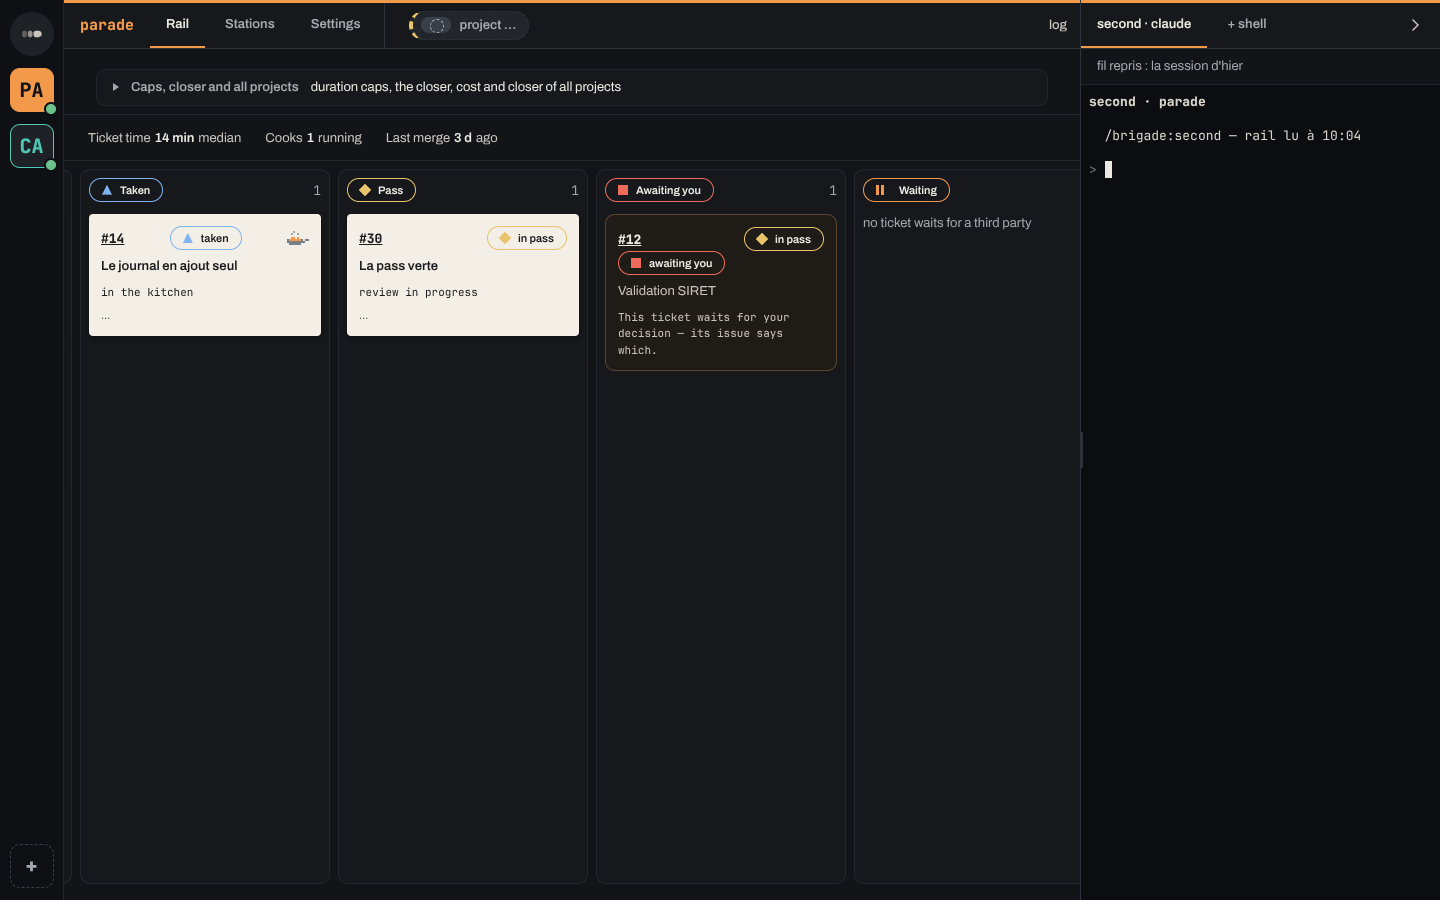
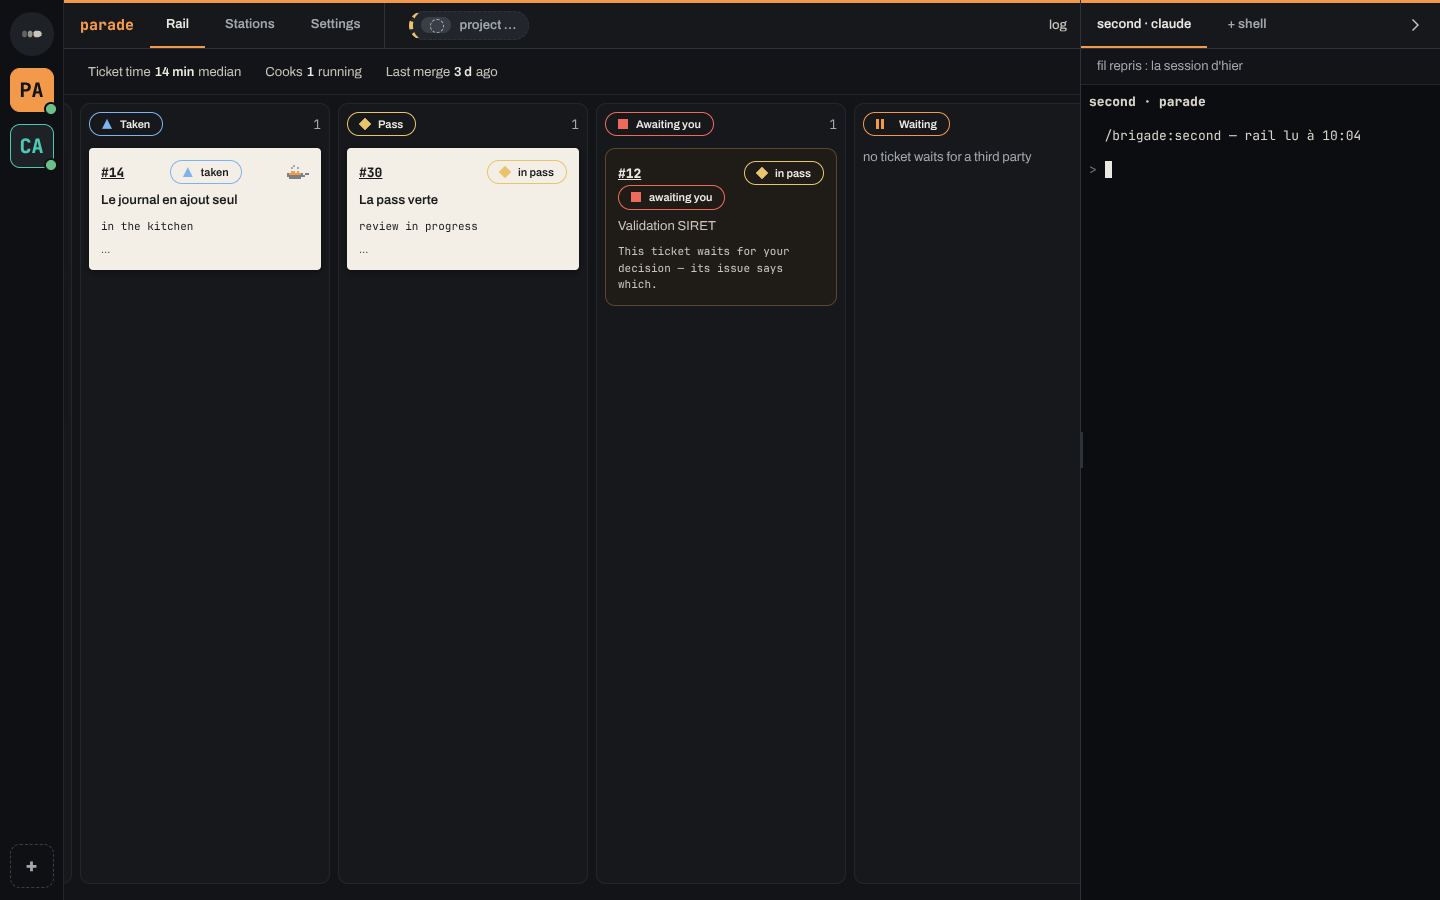
feat(#3013): the Caps, closer and all projects line leaves the Rail tab
Between the tabs and the columns, the Rail tab now holds only the band of figures: the folded
"Caps, closer and all projects" line is no longer shown there. Until the Settings ticket takes it
in, it stands at the top of the Stations tab, so the duration caps, the closer and the Cost and
Closer pages of all projects keep an entry (two clicks, as the epic 2484 test checks). Its content
and readings are unchanged; no Settings file is touched.

Tests: the rail tab shows no folded line and nothing but signs before the band; the line shows
on Stations only; the Cost / Closer helpers and the health strip tests go through Stations.
Captures: docs/captures/3013/rail-*-apres.png retaken, stations-avant/apres added.

Changed region(s): [[0.0625, 0.0622, 0.5625, 0.3733], [0.5938, 0.1244, 0.7188, 0.2489]]

diff --git a/app/src/vue/vue.js b/app/src/vue/vue.js
@@ -4590,10 +4590,10 @@ function poserLeRail(projet) {
   const onglet = ongletDe(projet);
   rail.dataset.onglet = onglet === STATIONS ? onglet : RAIL;
   rail.ariaLabel = onglet === STATIONS ? "The stations" : "The rail";
-  // Au-dessus du rail, la ligne repliée des plafonds, du closer et des lignes de tous les projets (tickets 2921, 3013) :
-  // sur Rail seulement. Les chiffres sont dans la bande du rail.
-  bandeauSante.hidden = onglet !== RAIL;
-  if (onglet === RAIL) poserLeBandeauDeSante(projet);
+  // La ligne repliée des plafonds, du closer et des lignes de tous les projets (tickets 2921, 3013) : plus sur Rail, où
+  // seule la bande des chiffres tient au-dessus des colonnes ; en tête de Stations, le temps que Settings la reprenne.
+  bandeauSante.hidden = onglet !== STATIONS;
+  if (onglet === STATIONS) poserLeBandeauDeSante(projet);
   else bandeauSante.replaceChildren();
   // Stations : la liste de ses stations (ticket 2487), et « Add a station » ; les réglages de
   // chacune (ticket 2488) ; la station de cet ordinateur (ticket 2489).
@@ -6321,9 +6321,10 @@ setInterval(() => {
   if (courant !== undefined && !delaiDuProjet.hidden) poserLeDelai(courant);
 }, 30_000);
 
-// Le bandeau de santé, au-dessus du rail (ticket 2490, 2921) : le temps des tickets en détail, les plafonds de durée et le closer. Les plafonds du
-// dépôt se lisent sur GitHub par le process principal (plafonds-duree.ts) — à l'ouverture de Rail, puis au plus une
-// fois la minute tant qu'il reste ouvert, et après chaque changement. Un champ en cours de frappe n'est pas reposé.
+// Le bandeau de santé (ticket 2490, 2921), en tête de Stations depuis que Rail n'a plus que la bande des chiffres (ticket
+// 3013) : les plafonds de durée et le closer. Les plafonds du dépôt se lisent sur GitHub par le process principal
+// (plafonds-duree.ts) — à l'ouverture de Stations, puis au plus une fois la minute tant qu'il reste ouvert, et après
+// chaque changement. Un champ en cours de frappe n'est pas reposé.
 /** @type {Map<string, import("../plafonds-duree.ts").LectureDesPlafonds>} */
 const plafondsLus = new Map();
 /** @type {Map<string, number>} */
@@ -6385,7 +6386,7 @@ function poserLeBandeauDeSante(projet, garder = true) {
 }
 /** @param {Projet} projet @param {boolean} [garder] */
 function reposerLaSante(projet, garder = false) {
-  if (courant?.nom === projet.nom && ongletDe(projet) === RAIL && laisse.get(projet.nom) === undefined) poserLeBandeauDeSante(projet, garder);
+  if (courant?.nom === projet.nom && ongletDe(projet) === STATIONS && laisse.get(projet.nom) === undefined) poserLeBandeauDeSante(projet, garder);
 }
 /** @param {Projet} projet */
 async function lireLesPlafondsDuree(projet) {
@@ -6429,7 +6430,7 @@ async function changerUnPlafond(projet, cle, saisie) {
 }
 
 // Le closer du bandeau de santé (ticket 2491) : ses passes, ce qu'il vérifie en premier et en plus, ses réglages — lus sur GitHub
-// par le process principal (closer-sante.ts), à l'ouverture de Rail puis au plus une fois la minute, comme les
+// par le process principal (closer-sante.ts), à l'ouverture de Stations puis au plus une fois la minute, comme les
 // plafonds. Un réglage changé se propose par une pull request (ticket 2920), qui se dit sous sa rangée — la valeur en
 // vigueur ne change qu'au merge ; une vérification ajoutée ou retirée s'écrit dans le dépôt, et la liste écrite est reprise.
 /** @param {Projet} projet */

diff --git a/app/test/vue/projet/rail/bande-rail.test.ts b/app/test/vue/projet/rail/bande-rail.test.ts
@@ -296,7 +296,7 @@ describe("sur l'onglet Rail", () => {
   const bande = (vue: Jouee) => vue.element("rail").children.find((pose) => pose.className === "bande-rail");
   const parts = (vue: Jouee) => (bande(vue) ?? assert.fail("pas de bande en tête du rail")).children.map(laPart);
 
-  test("une seule ligne de chiffres en tête du rail, chacun une fois ; au-dessus, ni bloc des temps, ni « Blocked without a question », ni aide `?`", async () => {
+  test("une seule ligne de chiffres en tête du rail, chacun une fois ; au-dessus, ni bloc des temps, ni « Blocked without a question », ni aide `?`, ni la ligne repliée « Caps, closer and all projects »", async () => {
     const vue = await ouvrir(NORMAL);
     const [temps, premierCoup, cooks, dernierMerge] = parts(vue);
     assert.equal(temps?.textContent, TEMPS_NORMAL);
@@ -310,23 +310,25 @@ describe("sur l'onglet Rail", () => {
     assert.ok(enfants.indexOf("bande-rail") < enfants.indexOf("colonnes"), enfants.join(", "));
     const noms = parts(vue).map((part) => part.className);
     assert.deepEqual(noms, [...new Set(noms)]);
-    // Au-dessus du rail, plus de bloc de chiffres, de titre sans rien dessous ni d'aide `?` : seule la ligne repliée des
-    // réglages reste, le temps que Settings la reprenne.
+    // Au-dessus du rail, plus rien d'autre que la bande : ni bloc de chiffres, ni titre sans rien dessous, ni aide `?`, ni la
+    // ligne repliée « Caps, closer and all projects ».
     const dessus = vue.element("bandeau-sante");
-    assert.deepEqual(dessus.dessous("section").map(({ dataset }) => dataset.bloc).filter((bloc) => bloc === "temps-tickets" || bloc === "bloque-sans-question"), []);
-    assert.doesNotMatch(dessus.textContent, /Ticket time|Blocked without a question/);
-    assert.doesNotMatch(dessus.textContent, /no measure yet|Not available yet/i);
-    assert.doesNotMatch(bande(vue)?.textContent ?? "", /no measure yet|Not available yet/i);
+    assert.equal(dessus.hidden, true);
+    assert.deepEqual(dessus.children, []);
+    // Devant la bande, seul un signe de lecture (une lecture vieille, hors ligne) peut se poser : aucun bloc, titre ni ligne repliée.
+    assert.deepEqual(enfants.slice(0, enfants.indexOf("bande-rail")).filter((nom) => !/^(fraicheur|hors-ligne)/.test(nom)), [], enfants.join(", "));
+    assert.doesNotMatch(vue.element("rail").textContent, /Caps, closer and all projects|Blocked without a question/);
+    assert.doesNotMatch(bande(vue)?.textContent ?? "", /no measure yet|Not available yet|\?/i);
   });
 
-  test("sur Stations, la bande et le bandeau de santé n'y sont pas ; Rail les rend", async () => {
+  test("sur Stations, la bande n'y est pas, la ligne repliée des réglages si ; Rail rend la bande seule", async () => {
     const vue = await ouvrir(NORMAL);
-    assert.equal(vue.element("bandeau-sante").hidden, false);
+    assert.equal(vue.element("bandeau-sante").hidden, true);
     await ouvrirOnglet(vue, "Stations");
     assert.equal(bande(vue), undefined);
-    assert.equal(vue.element("bandeau-sante").hidden, true);
-    await ouvrirOnglet(vue, "Rail");
     assert.equal(vue.element("bandeau-sante").hidden, false);
+    await ouvrirOnglet(vue, "Rail");
+    assert.equal(vue.element("bandeau-sante").hidden, true);
     assert.notEqual(bande(vue), undefined);
   });
 

diff --git a/app/test/vue/projet/menu.test.ts b/app/test/vue/projet/menu.test.ts
@@ -94,7 +94,7 @@ async function ouvrir(stockage?: FauxStockage): Promise<Jouee> {
 
 const menu = (vue: Jouee) => vue.element("onglets-du-projet").children;
 const marques = (ou: Faux[]) => ou.filter((onglet) => onglet.ariaSelected === "true").map((onglet) => onglet.textContent);
-// Les blocs du bandeau au-dessus du rail : ce que le chef déplie (les plafonds, le closer, tous les projets).
+// Les blocs du bandeau de santé, en tête de Stations (#3013) : ce que le chef déplie (les plafonds, le closer, tous les projets).
 const blocsDuBandeau = (vue: Jouee) => vue.element("bandeau-sante").dessous("section").map((pose) => pose.dataset.bloc).filter((bloc) => bloc !== undefined);
 const blocs = (vue: Jouee) => vue.element("rail").children.map((pose) => pose.dataset.bloc);
 
@@ -109,22 +109,23 @@ describe("le menu de la page d'un projet (#2485, #2921)", () => {
     assert.equal(vue.poses().some((element) => element.id === "onglets-cuisine"), false);
   });
 
-  test("chaque bloc est monté dans son onglet, le bandeau de santé sur Rail seulement", async () => {
+  test("chaque bloc est monté dans son onglet, le bandeau de santé sur Stations seulement", async () => {
     const vue = await ouvrir();
-    // Au-dessus du rail, les plafonds, le closer, puis les lignes « Cost » et « Closer » de tous les projets (#2638) ; les
-    // chiffres de la cuisine sont dans la bande du rail (#3013).
-    assert.equal(vue.element("bandeau-sante").hidden, false);
-    assert.deepEqual(blocsDuBandeau(vue), ["plafonds-duree", "closer", "de-tous-les-projets"]);
+    // Sur Rail, au-dessus des colonnes, la seule bande des chiffres (#3013) : plus de ligne repliée.
+    assert.equal(vue.element("bandeau-sante").hidden, true);
+    assert.deepEqual(vue.element("bandeau-sante").children, []);
 
     await ouvrirOnglet(vue, "Stations");
     // Puis, en bas, toutes les stations et « + station », qui ont quitté l'accueil (#2638).
     assert.deepEqual(blocs(vue), ["liste-stations", "reglages-station", "station-locale", "toutes-les-stations"]);
-    assert.equal(vue.element("bandeau-sante").hidden, true);
-    assert.deepEqual(vue.element("bandeau-sante").children, []);
+    // En tête, les plafonds, le closer, puis les lignes « Cost » et « Closer » de tous les projets (#2638), le temps que
+    // Settings les reprenne (#3013).
+    assert.equal(vue.element("bandeau-sante").hidden, false);
+    assert.deepEqual(blocsDuBandeau(vue), ["plafonds-duree", "closer", "de-tous-les-projets"]);
 
     await ouvrirOnglet(vue, "Rail");
-    assert.equal(vue.element("bandeau-sante").hidden, false);
-    assert.equal(blocsDuBandeau(vue).length, 3);
+    assert.equal(vue.element("bandeau-sante").hidden, true);
+    assert.deepEqual(vue.element("bandeau-sante").children, []);
   });
 
   test("l'onglet retenu est celui du projet ; un ancien « cooks » ou « sante » stocké ouvre Rail", async () => {

diff --git a/scripts/capture-ecran/ecrans/projet-sante-enregistre.ts b/scripts/capture-ecran/ecrans/projet-sante-enregistre.ts
@@ -1,11 +1,11 @@
-// La page de « parade », le bandeau de santé de Rail (#2490, #2920) : le chef a tapé 150 dans la durée des gates et quitté
+// La page de « parade », le bandeau de santé en tête de Stations (#2490, #2920, #3013) : le chef a tapé 150 dans la durée des gates et quitté
 // le champ — le réglage s'applique à son `change`, sans « save ». Gardé dans le dépôt, il s'y propose par une pull
 // request : la rangée la dit, son lien l'ouvre, et la valeur montrée reste celle en vigueur jusqu'au merge.
 import type { RenduDuPlafond } from "../../../app/src/plafonds-duree.ts";
 import { PROPOSE } from "../../../app/src/reglages-du-projet.ts";
 import type { Ecran } from "./commun.ts";
 import { donnees, OUVRIR, SUR_LA_BOX } from "./cuisine-demenagee.ts";
-import { PLAFONDS_LUS } from "./projet-sante.ts";
+import { PLAFONDS_LUS, STATIONS } from "./projet-sante.ts";
 import { NORMAL } from "./projet-temps-commun.ts";
 
 const PROPOSE_PAR_PR: RenduDuPlafond = { propose: PROPOSE, pr: "https://github.com/chef/parade/pull/2612", numero: 2612, cle: "gatesSeconds", valeur: 150 };
@@ -14,9 +14,9 @@ const DEPLIER = { cliquer: "#bandeau-sante > details > summary" };
 const CHAMP = '[data-bloc="plafonds-duree"] .reglage[data-cle="gatesSeconds"] input';
 
 export const ecran: Ecran = {
-  dit: "L'espace de « parade », le bandeau de santé de Rail : un plafond de durée changé, proposé par une pull request (#2490, #2920)",
+  dit: "L'espace de « parade », le bandeau de santé de Stations : un plafond de durée changé, proposé par une pull request (#2490, #2920)",
   largeur: 1440,
   hauteur: 900,
-  etapes: [OUVRIR, DEPLIER, { saisir: CHAMP, texte: "150", valider: true }, { defiler: `[data-bloc="plafonds-duree"] .reglage[data-cle="testsSeconds"]` }],
+  etapes: [OUVRIR, STATIONS, DEPLIER, { saisir: CHAMP, texte: "150", valider: true }, { defiler: `[data-bloc="plafonds-duree"] .reglage[data-cle="testsSeconds"]` }],
   donnees: () => donnees({ ...SUR_LA_BOX, temps: { enregistrements: NORMAL, lostTimeMaxMin: 2 } }, { plafondsDuree: PLAFONDS_LUS, changerPlafondDuree: PROPOSE_PAR_PR }),
 };

diff --git a/scripts/capture-ecran/ecrans/projet-sante-closer-ajout.ts b/scripts/capture-ecran/ecrans/projet-sante-closer-ajout.ts
@@ -1,11 +1,11 @@
-// La page de « parade », le bandeau de santé de Rail (#2491, #2920) : le chef a tapé une vérification de plus pour le closer
+// La page de « parade », le bandeau de santé en tête de Stations (#2491, #2920, #3013) : le chef a tapé une vérification de plus pour le closer
 // et cliqué « add » — l'ajout à `.claude/brigade/closer-checks.md` est proposé par une pull request, que la partie dit et
 // ouvre ; la liste reste celle en vigueur jusqu'au merge.
 import type { RenduDesVerifications } from "../../../app/src/closer-sante.ts";
 import { PROPOSE } from "../../../app/src/reglages-du-projet.ts";
 import type { Ecran } from "./commun.ts";
 import { donnees, OUVRIR, SUR_LA_BOX } from "./cuisine-demenagee.ts";
-import { PLAFONDS_LUS } from "./projet-sante.ts";
+import { PLAFONDS_LUS, STATIONS } from "./projet-sante.ts";
 import { CLOSER_LU } from "./projet-sante-closer.ts";
 import { NORMAL } from "./projet-temps-commun.ts";
 
@@ -21,12 +21,13 @@ const RENDU: RenduDesVerifications = {
 const CHAMP = '[data-bloc="closer"] [data-partie="en-plus"] .champ.ajouter input';
 
 export const ecran: Ecran = {
-  dit: "L'espace de « parade », le bandeau de santé de Rail : une vérification ajoutée au closer, proposée par une pull request (#2491, #2920)",
+  dit: "L'espace de « parade », le bandeau de santé de Stations : une vérification ajoutée au closer, proposée par une pull request (#2491, #2920)",
   largeur: 1440,
   hauteur: 1700,
   // Le closer est replié derrière une ligne du bandeau : le chef la déplie d'abord, puis la partie est amenée à l'écran.
   etapes: [
     OUVRIR,
+    STATIONS,
     { cliquer: "#bandeau-sante > details > summary" },
     { saisir: CHAMP, texte: AJOUTEE },
     { cliquer: '[data-bloc="closer"] .ajouter-la-verification button' },

diff --git a/scripts/capture-ecran/ecrans/projet-sante-closer.ts b/scripts/capture-ecran/ecrans/projet-sante-closer.ts
@@ -1,11 +1,11 @@
-// La page de « parade », le bandeau de santé de Rail (#2491, épique #2484), haute assez pour montrer le closer sous les temps et les
-// plafonds : ses trois dernières passes — une en cours, sa PR à la pass ; une mergée, ses lignes retirées ; une fermée
+// La page de « parade », le bandeau de santé en tête de Stations (#2491, épique #2484, #3013), haute assez pour montrer le
+// closer sous les plafonds : ses trois dernières passes — une en cours, sa PR à la pass ; une mergée, ses lignes retirées ; une fermée
 // sans merge —, ce que la dernière lui a remis, les deux vérifications que le chef lui a demandées en plus, et ses
 // réglages, dont le calibrage et le plafond de tokens posés dans le dépôt.
 import type { LectureDuCloser } from "../../../app/src/closer-sante.ts";
 import type { Ecran } from "./commun.ts";
 import { donnees, OUVRIR, SUR_LA_BOX } from "./cuisine-demenagee.ts";
-import { PLAFONDS_LUS } from "./projet-sante.ts";
+import { PLAFONDS_LUS, STATIONS } from "./projet-sante.ts";
 import { NORMAL } from "./projet-temps-commun.ts";
 
 const DEPOT = "https://github.com/chef/parade";
@@ -68,9 +68,9 @@ export const CLOSER_LU: LectureDuCloser = {
 };
 
 export const ecran: Ecran = {
-  dit: "L'espace de « parade », le bandeau de santé de Rail : le closer — ses passes, ce qu'il vérifie en premier et en plus, ses réglages (#2491)",
+  dit: "L'espace de « parade », le bandeau de santé de Stations : le closer — ses passes, ce qu'il vérifie en premier et en plus, ses réglages (#2491)",
   largeur: 1440,
   hauteur: 1700,
-  etapes: [OUVRIR],
+  etapes: [OUVRIR, STATIONS],
   donnees: () => donnees({ ...SUR_LA_BOX, temps: { enregistrements: NORMAL, lostTimeMaxMin: 2 } }, { plafondsDuree: PLAFONDS_LUS, closerDeSante: CLOSER_LU }),
 };

diff --git a/scripts/capture-ecran/ecrans/projet-sante.ts b/scripts/capture-ecran/ecrans/projet-sante.ts
@@ -1,10 +1,13 @@
-// La page de « parade », le bandeau au-dessus du rail (#2490, #2921, #3013) : la ligne repliée des plafonds de durée que le
-// chef y règle, sous la ligne de chiffres de la bande du rail. Le dépôt déclare deux seuils
+// La page de « parade », le bandeau de santé en tête de Stations (#2490, #2921, #3013) : la ligne repliée des plafonds de
+// durée que le chef y règle — Rail n'a plus que la bande des chiffres. Le dépôt déclare deux seuils
 // (`drift.gatesSeconds` et `drift.tests`) ; les autres n'y sont pas.
 import { PLAFONDS, type LectureDesPlafonds } from "../../../app/src/plafonds-duree.ts";
 import type { Ecran } from "./commun.ts";
 import { donnees, OUVRIR, SUR_LA_BOX } from "./cuisine-demenagee.ts";
 import { NORMAL } from "./projet-temps-commun.ts";
+
+// Le bandeau de santé est en tête de Stations (#3013) : le chef y passe d'abord.
+export const STATIONS = { cliquer: "#onglets-du-projet button:nth-child(2)" };
 
 const DANS_LE_DEPOT: Record<string, number> = { gatesSeconds: 120, tests: 900 };
 export const PLAFONDS_LUS: LectureDesPlafonds = {
@@ -13,9 +16,9 @@ export const PLAFONDS_LUS: LectureDesPlafonds = {
 };
 
 export const ecran: Ecran = {
-  dit: "L'espace de « parade », Rail et la ligne repliée au-dessus : plafonds de durée (#2490, #3013)",
+  dit: "L'espace de « parade », Stations et la ligne repliée en tête : plafonds de durée (#2490, #3013)",
   largeur: 1440,
   hauteur: 900,
-  etapes: [OUVRIR],
+  etapes: [OUVRIR, STATIONS],
   donnees: () => donnees({ ...SUR_LA_BOX, temps: { enregistrements: NORMAL, lostTimeMaxMin: 2 } }, { plafondsDuree: PLAFONDS_LUS }),
 };

diff --git a/app/test/aides/fausse-vue.ts b/app/test/aides/fausse-vue.ts
@@ -506,11 +506,13 @@ export async function ouvrirLecture(vue: Jouee, titre: string): Promise<Faux> {
   return cliquer(vue.element("onglets-du-projet"), "Settings");
 }
 
-// Les lignes de tous les projets, « Cost » et « Closer », sont en bas du bandeau de santé de chaque projet (#2638, #2921) : le
-// premier projet de la barre s'ouvre, comme le chef le fait. Rend la ligne qui porte ce nom.
+// Les lignes de tous les projets, « Cost » et « Closer », sont en bas du bandeau de santé de chaque projet (#2638, #2921), en
+// tête de Stations (#3013) : le premier projet de la barre s'ouvre, puis Stations, comme le chef le fait. Rend la ligne qui
+// porte ce nom.
 async function ligneDeTousLesProjets(vue: Jouee, nom: string): Promise<Faux> {
   vue.element("projets").children[1]?.click();
   await repos();
+  await ouvrirOnglet(vue, "Stations");
   const ligne = vue.element("de-tous-les-projets").dessous("button").find(({ ariaLabel }) => ariaLabel === nom);
   if (ligne === undefined) throw new Error(`pas de ligne « ${nom} » dans le bandeau de santé`);
   return ligne;

diff --git a/app/test/vue/projet/bandeau-sante.test.ts b/app/test/vue/projet/bandeau-sante.test.ts
@@ -304,7 +304,7 @@ describe("le closer, sur Health", () => {
   });
 });
 
-// La vue entière : parade, ouvert sur Rail, sous le bandeau de santé (#2921), devant un GitHub qui garde ce qu'on lui écrit.
+// La vue entière : parade, ouvert sur Stations, sous le bandeau de santé (#2921, #3013), devant un GitHub qui garde ce qu'on lui écrit.
 const demarrage = () => ({
   configuration: pourLaBarre({ chemin: "/tmp/app.json", projets: [{ nom: "parade", dossier: "/tmp/parade" }] }, () => true),
   palette: PALETTE,
@@ -344,6 +344,8 @@ async function jouer(): Promise<{ vue: Jouee; ecrits: [string, string, string][]
   });
   (vue.element("projets").children.at(1) ?? assert.fail("pas de case pour parade")).click();
   await repos();
+  // Le bandeau est en tête de Stations depuis que Rail n'a plus que la bande des chiffres (#3013).
+  await ouvrirOnglet(vue, "Stations");
   return { vue, ecrits, closer };
 }
 const bloc = (vue: Jouee) => vue.element("bandeau-sante").dessous("section").find(({ dataset }) => dataset.bloc === "plafonds-duree") ?? assert.fail("pas de plafonds");

diff --git a/app/src/vue/index.html b/app/src/vue/index.html
@@ -114,8 +114,8 @@
            Stations : ses stations et leurs réglages. Une page
            ouverte se pose par-dessus, sans le défaire : fermée, elle rend l'onglet tel qu'il était. -->
       <div id="centre">
-      <!-- Au-dessus du rail (tickets 2921, 3013) : la ligne repliée des plafonds de durée, du closer et des lignes de tous
-           les projets. Montrée sur Rail seulement ; les chiffres sont dans la bande du rail. -->
+      <!-- La ligne repliée des plafonds de durée, du closer et des lignes de tous les projets (tickets 2921, 3013) : en
+           tête de Stations seulement, le temps que Settings la reprenne. Sur Rail, la bande des chiffres seule. -->
       <section id="bandeau-sante" aria-label="Caps, closer and all projects" hidden></section>
       <section id="rail" role="tabpanel" aria-label="The rail" hidden></section>
       <!-- La fiche d'un ticket : un clic sur sa carte l'ouvre par-dessus le rail, sans le défaire ; fermée — son

diff --git a/app/test/vue/projet/acces-reglages.test.ts b/app/test/vue/projet/acces-reglages.test.ts
@@ -71,7 +71,7 @@ const GROUPES = (() => {
 // Ce que la page Settings montre, avec le niveau du groupe qui le porte.
 const deSettings = (vue: Jouee): { niveau: string; pose: Faux }[] =>
   vue.element("etat").hidden ? [] : GROUPES.flatMap(({ niveau, ids }) => ids.map((id) => ({ niveau, pose: vue.element(id) }))).filter(({ pose }) => montre(pose));
-// Les éléments où chercher un réglage dans un onglet (sur Rail, le bandeau de santé au-dessus du rail en fait partie).
+// Les éléments où chercher un réglage dans un onglet (sur Stations, le bandeau de santé en tête en fait partie, #3013).
 const racines = (vue: Jouee, onglet: Onglet): Faux[] => (onglet === "Settings" ? deSettings(vue).map(({ pose }) => pose) : [vue.element("rail"), vue.element("bandeau-sante")]);
 
 // Un élément se montre quand lui et tous ses parents le font.

diff --git a/app/src/vue/vue.css b/app/src/vue/vue.css
@@ -820,7 +820,7 @@ main > header,
   display: flex;
   flex-direction: column;
 }
-/* Au-dessus du rail, la ligne repliée des plafonds, du closer et des lignes de tous les projets (tickets 2921, 3013). Il ne prend jamais plus des deux cinquièmes du centre, et défile au-delà, que le rail garde sa
+/* En tête de Stations, la ligne repliée des plafonds, du closer et des lignes de tous les projets (tickets 2921, 3013). Il ne prend jamais plus des deux cinquièmes du centre, et défile au-delà, que l'onglet garde sa
    hauteur. */
 #bandeau-sante {
   flex: none;
